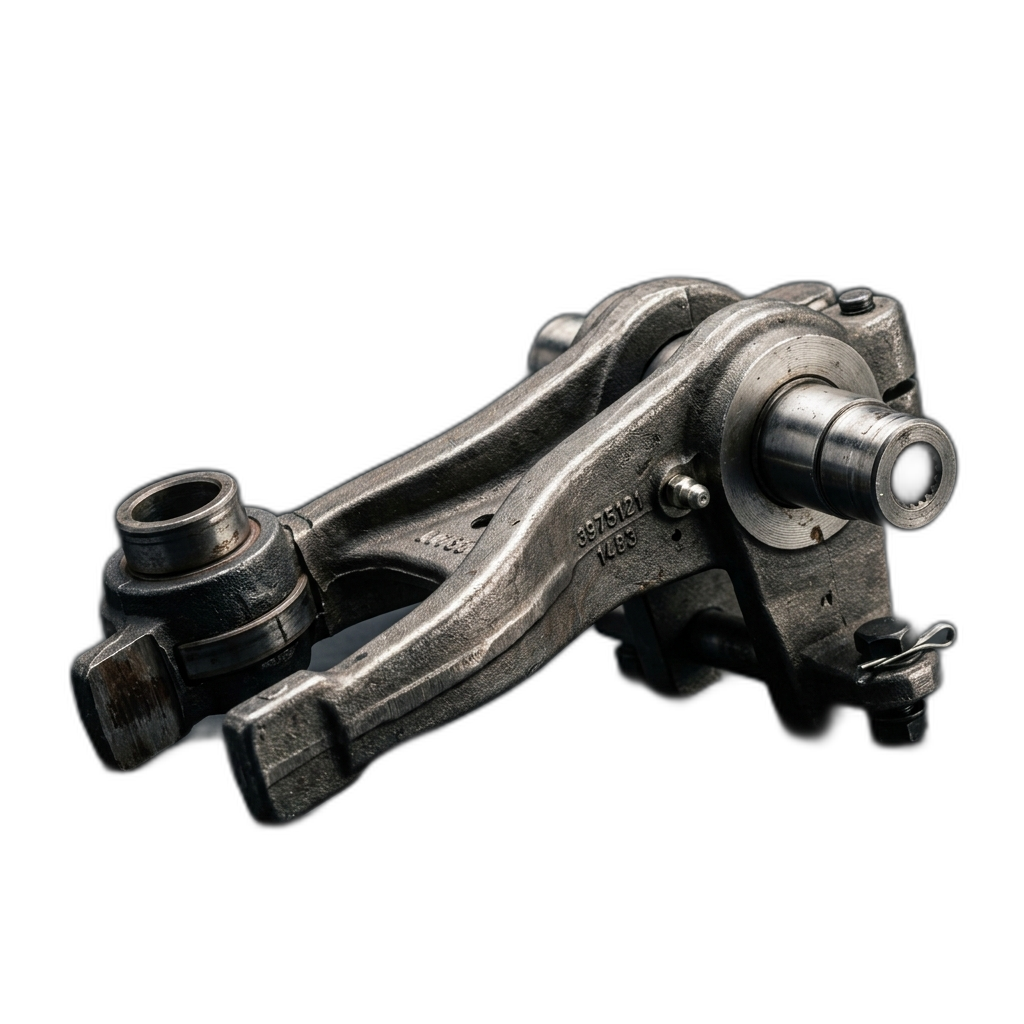
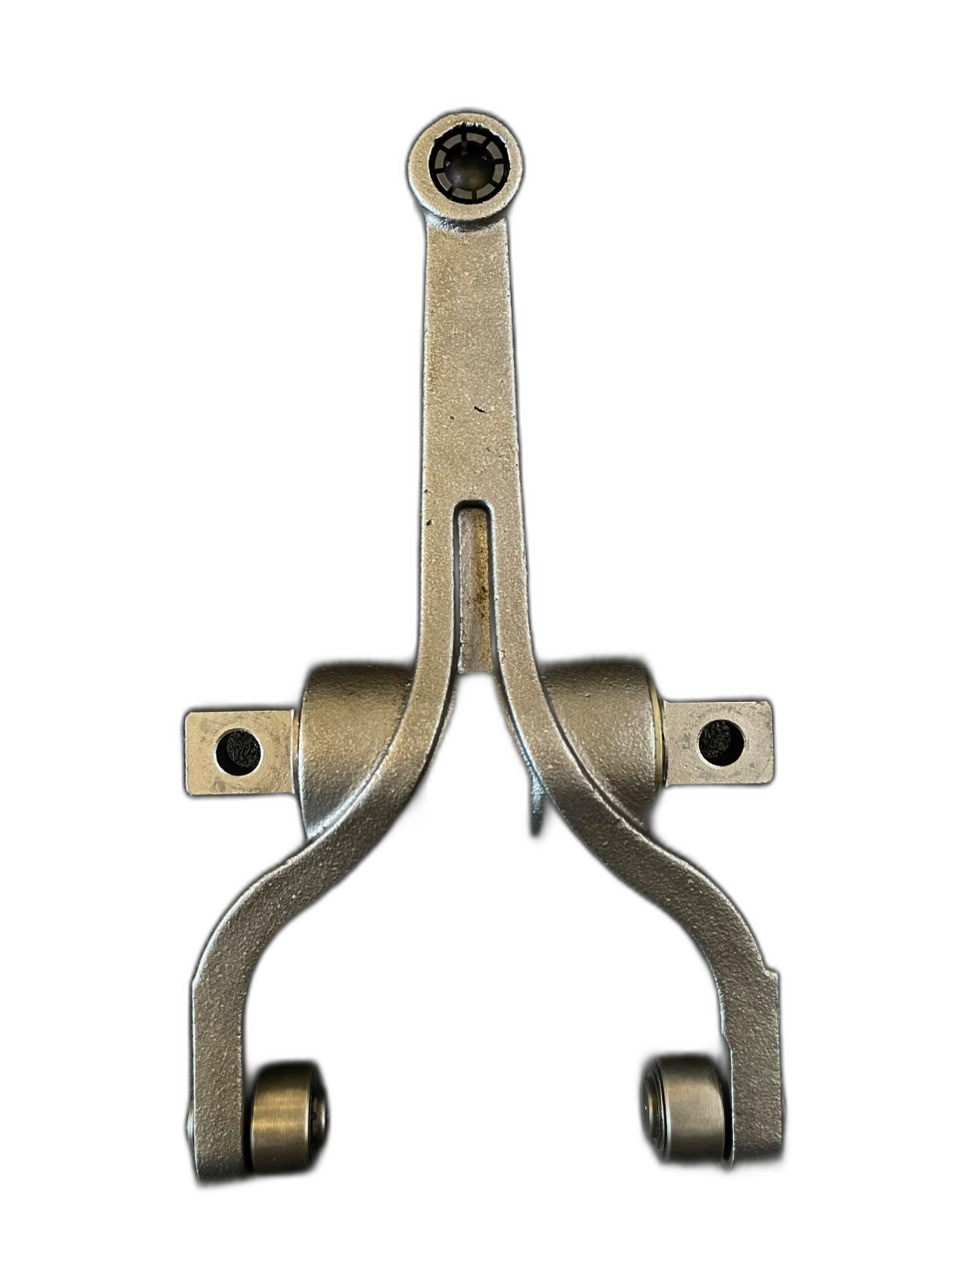
style: use Carlos's garfo photo with background removed

diff --git a/components/sections/ProductCategories.tsx b/components/sections/ProductCategories.tsx
@@ -8,7 +8,7 @@ import Link from "next/link";
 const IMAGE_MAP: Record<string, string> = {
   embreagens: "/images/produto-embreagens-nobg-v2.png",
   volantes: "/images/produto-volantes-nobg-v2.png",
-  garfos: "/images/produto-garfos.png",
+  garfos: "/images/produto-garfos-nobg-v2.png",
   mancais: "/images/produto-mancais-nobg-v2.png",
 };
 

diff --git a/lib/products.ts b/lib/products.ts
@@ -81,7 +81,7 @@ export const PRODUCTS: Product[] = [
     ],
     aplicacao:
       "Actros, Atego, Axor, FH, FM, R, P, Cargo, Constellation e demais modelos de linha pesada.",
-    imagem: "/images/produto-garfos.png",
+    imagem: "/images/produto-garfos-nobg-v2.png",
     icon: "GitFork",
   },
   {
